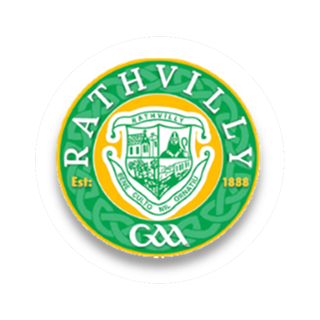
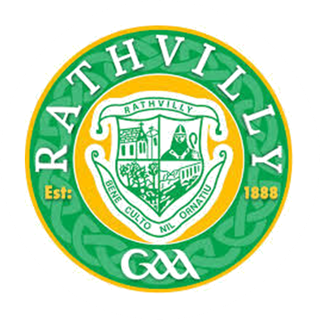
Use crests exactly as provided, no reprocessing

diff --git a/src/App.jsx b/src/App.jsx
@@ -19,7 +19,7 @@ const HERO_DARK = "#750712";
 
 // The ?v= tag forces browsers/CDN to re-fetch when a crest/logo image is updated —
 // bump this number any time an image file changes, otherwise cached copies can stick around.
-const CREST_VERSION = "3";
+const CREST_VERSION = "4";
 const BADGE_LOGO = `/logo.png?v=${CREST_VERSION}`;
 
 const CRESTS = {
